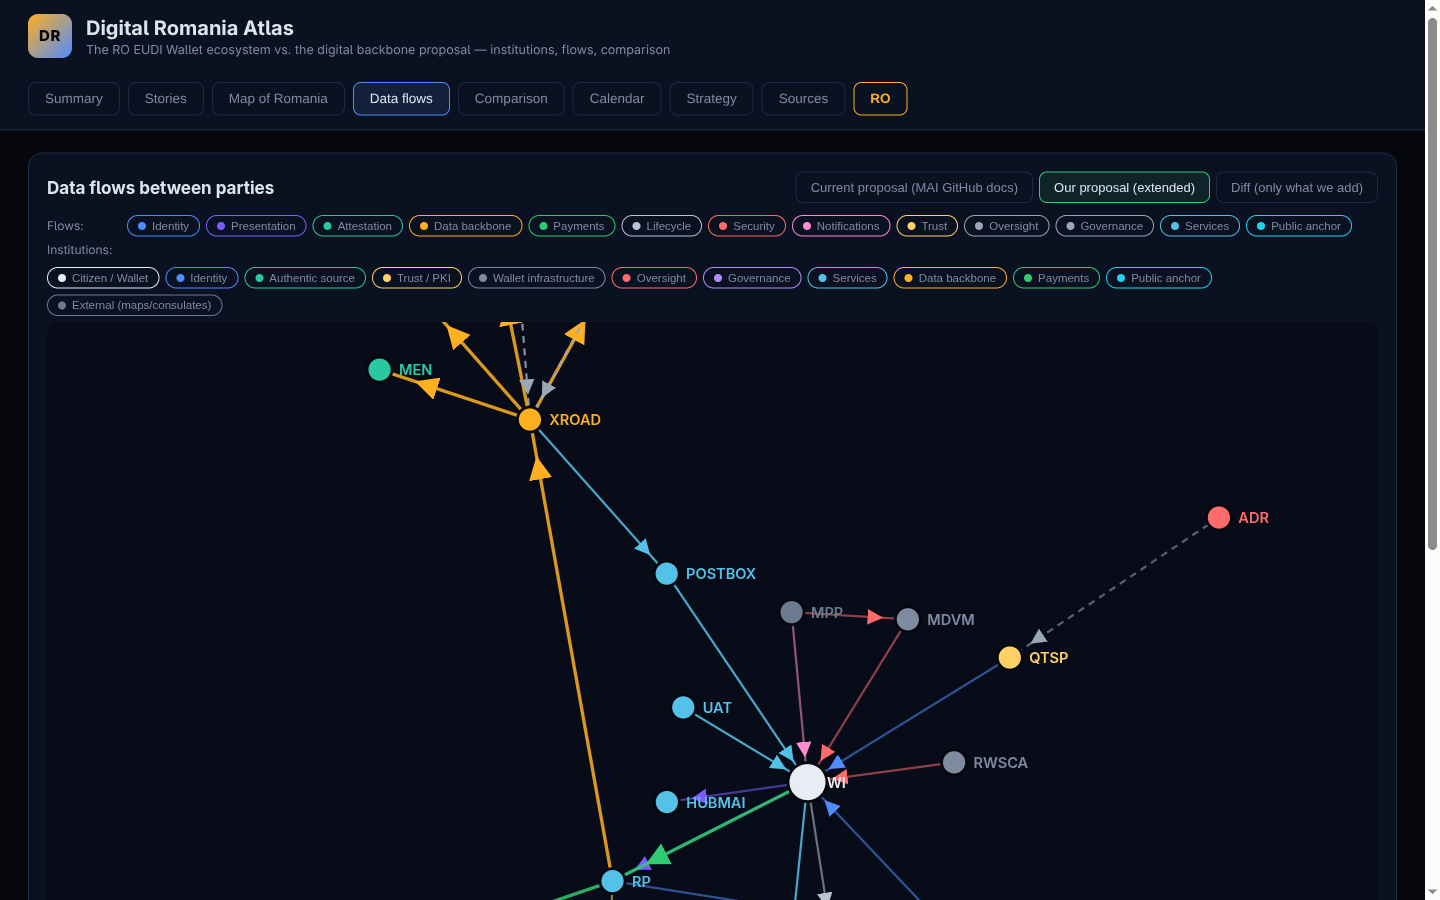
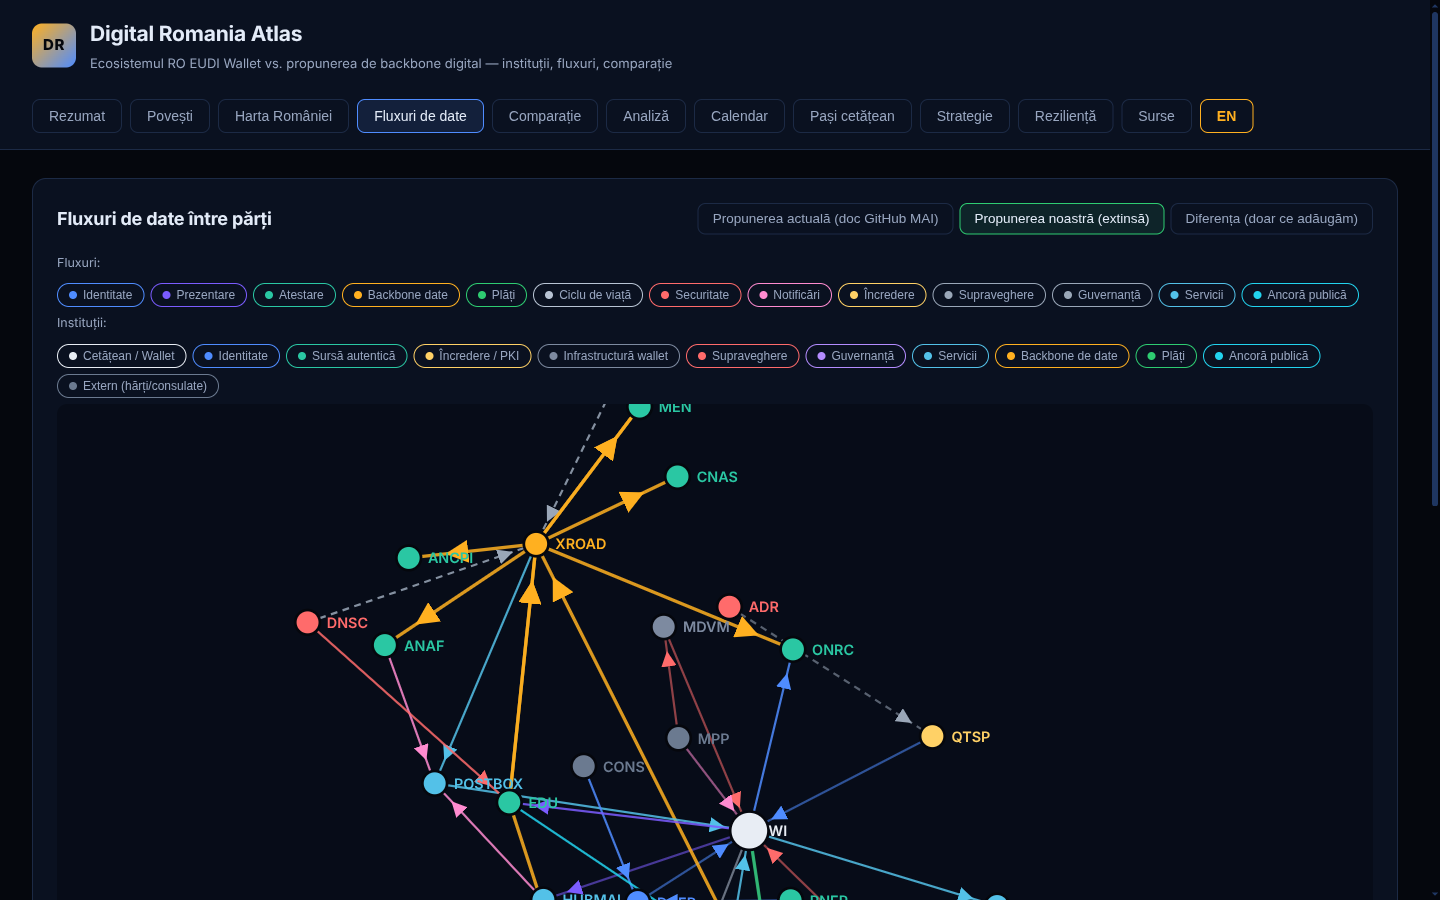
Sync docs to v0.3.0: glossary terms for new acronyms, README/changelog updates, fresh screenshots

diff --git a/src/data/glossary.ts b/src/data/glossary.ts
@@ -8,6 +8,83 @@ export interface GlossaryEntry {
 
 export const GLOSSARY: GlossaryEntry[] = [
   {
+    term: "FIDO2",
+    text: {
+      ro: "Fast IDentity Online 2 — standard de autentificare fără parolă, bazat pe chei criptografice de pe dispozitiv",
+      en: "Fast IDentity Online 2 — passwordless authentication built on device-held cryptographic keys",
+    },
+  },
+  {
+    term: "CTAP2",
+    text: {
+      ro: "Client to Authenticator Protocol 2 — protocolul prin care browserul/sistemul vorbește cu cheia hardware",
+      en: "Client to Authenticator Protocol 2 — how the browser/OS talks to a hardware key",
+    },
+  },
+  {
+    term: "WebAuthn",
+    text: {
+      ro: "Web Authentication — API-ul de autentificare FIDO2 din browsere",
+      en: "Web Authentication — the FIDO2 authentication API in browsers",
+    },
+  },
+  {
+    term: "BBS+",
+    text: {
+      ro: "Schemă de semnături cu atribute — permite dovedirea unei proprietăți fără dezvăluirea identității (anonymous credentials)",
+      en: "Attribute-based signature scheme — proving a property without revealing identity (anonymous credentials)",
+    },
+  },
+  {
+    term: "ZK",
+    text: {
+      ro: "Zero-Knowledge — demonstrație criptografică: dovedești că ceva e adevărat fără să arăți de ce",
+      en: "Zero-Knowledge — a cryptographic proof: you show something is true without showing why",
+    },
+  },
+  {
+    term: "E2E-V",
+    text: {
+      ro: "End-to-End Verifiable — vot electronic în care oricine poate verifica includerea buletinului și corectitudinea numărătorii, fără a afla cum a votat cineva",
+      en: "End-to-End Verifiable — e-voting where anyone can verify ballot inclusion and tally correctness without learning how anyone voted",
+    },
+  },
+  {
+    term: "mixnet",
+    text: {
+      ro: "Rețea de amestecare — rețea criptografică ce amestecă mesajele între expeditor și destinatar, rupând legătura dintre ei",
+      en: "Mix network — a cryptographic network that shuffles messages between sender and receiver, breaking the link between them",
+    },
+  },
+  {
+    term: "ElGamal",
+    text: {
+      ro: "Sistem de criptare cu cheie publică, aditiv homomorf — permite numărarea buletinelor fără a le decripta individual",
+      en: "A public-key encryption system, additively homomorphic — allows tallying ballots without decrypting each one",
+    },
+  },
+  {
+    term: "QSealC",
+    text: {
+      ro: "Qualified Electronic Seal — sigiliul electronic calificat al persoanei juridice (echivalentul QES pentru firme, eIDAS art. 35)",
+      en: "Qualified Electronic Seal — the legal person's qualified seal (the QES equivalent for companies, eIDAS art. 35)",
+    },
+  },
+  {
+    term: "Merkle",
+    text: {
+      ro: "Arbore Merkle — structură de hash-uri în care orice modificare a unei frunze schimbă rădăcina publică (verificare eficientă a integrității)",
+      en: "Merkle tree — a hash structure where any leaf change alters the public root (efficient integrity verification)",
+    },
+  },
+  {
+    term: "OpenID4VP",
+    text: {
+      ro: "OpenID for Verifiable Presentations — protocolul prin care wallet-ul prezintă credențiale unui serviciu (inclusiv prin QR cross-device)",
+      en: "OpenID for Verifiable Presentations — how the wallet presents credentials to a service (including cross-device QR)",
+    },
+  },
+  {
     term: "PID",
     text: {
       ro: "Personal Identification Data — date de identificare personală",

diff --git a/src/data/meta.ts b/src/data/meta.ts
@@ -6,7 +6,7 @@
  */
 
 export const META = {
-  version: "0.2.0",
+  version: "0.3.0",
   /** When the data was last meaningfully updated. */
   dataAsOf: "2026-09-11",
   author: {

diff --git a/README.md b/README.md
@@ -19,17 +19,20 @@ header)
 
 ![Strategy](docs/screenshots/shot-strategy.png)
 
+![Citizen journeys](docs/screenshots/shot-journeys.png)
+
 ## What it shows
 
 | View                | Content                                                                                                                                                                                                                                                                                                                                                                                                                                                                                                |
 | ------------------- | ------------------------------------------------------------------------------------------------------------------------------------------------------------------------------------------------------------------------------------------------------------------------------------------------------------------------------------------------------------------------------------------------------------------------------------------------------------------------------------------------------ |
 | **Rezumat**         | "Romania digitală în 30 de secunde": what happens today, the 5 additions we propose, why it matters.                                                                                                                                                                                                                                                                                                                                                                                                   |
-| **Povești**         | Ten citizen stories with personas — rural pensioner, proof of age, local tax, medical attestation, diaspora bank account, university enrolment, sick leave, car purchase, land book extract, civic verification — each showing today vs. proposal with the involved flow steps.                                                                                                                                                                                                                        |
+| **Povești**         | Thirteen citizen stories with personas — rural pensioner, proof of age, local tax, medical attestation, diaspora bank account, university enrolment, sick leave, car purchase, land book extract, civic verification, the lost phone, the anchored parliamentary vote, the company administrator — each showing today vs. proposal with the involved flow steps.                                                                                                                                       |
 | **Harta României**  | County map with institutions as colored points (category-filterable). Small dots in every county = town halls (UAT) as assisted-enrollment / offline fallback points in the proposal.                                                                                                                                                                                                                                                                                                                  |
 | **Fluxuri de date** | Three toggleable force-directed graphs. _"Propunerea actuală"_ reproduces only what the published MAI GitHub documentation describes (PID issuance, presentation, wallet backend, MDVM, RWSCA, push, status lists). _"Propunerea noastră"_ adds the data backbone, payments, digital postbox, diaspora, independent oversight, and public transparency anchors (permissionless chain + EBSI). _"Diferența"_ dims the documented flows and highlights only what the proposal adds. Filter by flow type. |
 | **Comparație**      | 13-dimension table: published documentation vs. our proposal, with status (aligned / extended / added).                                                                                                                                                                                                                                                                                                                                                                                                |
 | **Analiză**         | Policy brief: the verdict (honour the EUDI obligation, not the current architecture as end state), the 4 construction facts from the MAI presentation, the 8 risks (institutional concentration, vendor lock-in, surveillance capability, parallel identities, thin scope, unpublished resilience, per-institution integration, aggressive timeline) with fixes, the 8-criterion comparison, and the concrete gains.                                                                                   |
 | **Calendar**        | EU obligations, the national plan, and our proposed additions side by side.                                                                                                                                                                                                                                                                                                                                                                                                                            |
+| **Pași cetățean**   | Eight citizen-journey flow diagrams with numbered steps: wallet enrollment, signing in, the lost phone, the optional hardware key, the open and the secret parliamentary vote, the company mandate and delegation — every actor chip shows its full name and role on hover.                                                                                                                                                                                                                            |
 | **Strategie**       | Full 7-layer architecture (L0 sovereign endpoints → L6 oversight), the six pillars (redundancy, open source, security, scalability, transparency anchors, educational & civic networks), redundancy tiers per service class, 5-year cost estimates, machines & equipment required, estimated savings, the 14 outward-facing portals, and the rationalisation of today's real state portals (inventory, consolidation map, governance rules, cutover phases).                                           |
 | **Reziliență**      | The 3+8+1+L0 model: three semi-active sovereign sites, eight regional micro-DCs with own power generation (one per development region), an underground salt-mine vault, and offline L0 nodes; energy-autonomy math per tier; Vrancea/flood/outage/cable/cyber scenarios; hardware independence (OCP, open ISA, OpenBMC); software independence; RoEduNet/academia integration; 3-2-1-1-0 backup rules; resilience costs.                                                                               |
 | **Surse**           | Provenance for every claim: MAI docs pinned at a specific commit, the MAI presentation, EU regulations, standards, the sovereign-OS article, and the verified state portals behind the rationalisation inventory.                                                                                                                                                                                                                                                                                      |
@@ -90,7 +93,8 @@ Everything is plain typed data — edit without touching components:
 - `src/data/hr.ts` — human resources: team templates, per-institution FTE, RO vs EU pay bands (Strategie tab)
 - `src/data/resilience.ts` — DC placement, regional micro-DCs, underground sites, energy autonomy, disaster scenarios, hardware/software sovereignty, academia, costs (Reziliență tab)
 - `src/data/policy.ts` — the policy brief: verdict, current-architecture facts, the 8 risks with fixes, criteria, gains (Analiză tab)
-- `src/data/stories.ts` — the five citizen stories
+- `src/data/stories.ts` — the citizen stories
+- `src/data/journeys.ts` — the step-by-step citizen journeys (Pași cetățean)
 - `src/data/sources.ts` — provenance links for every claim
 - `src/i18n.tsx` — RO/EN language context; every data field is `{ ro, en }`
 - `public/data/ro-counties.geojson` — Romania counties (42 features, incl. București)

diff --git a/CHANGELOG.md b/CHANGELOG.md
@@ -6,18 +6,34 @@ version (shown in the page footer) so a citation stays verifiable.
 
 ## [Unreleased]
 
+## [0.3.0] — 2026-09-11
+
 ### Added
+
+- Eight citizen-journey flow diagrams (Pași cetățean view): wallet enrollment,
+  signing in, the lost phone, the optional hardware key, the open and the
+  secret parliamentary vote, the company mandate, and delegated powers.
+- Parliamentary voting model: QES-signed and publicly anchored open votes;
+  anonymous credentials, encrypted ballots, mixnet, homomorphic tally with an
+  HSM quorum and end-to-end verification for secret votes.
+- Company representation model: ONRC mandate attestations, delegation chains
+  and the qualified electronic seal (QSealC).
+- Identity-loss planning: lost-device scenario in Reziliență, identity
+  lifecycle table in Strategie, hardware-key row in Comparație, lost-phone
+  story in Povești.
+- Hover tooltips on every actor acronym in stories and journeys.
+- Parliament and Company nodes on the institutions map.
+- Glossary entries for the new terms (FIDO2, CTAP2, WebAuthn, BBS+, ZK, E2E-V,
+  mixnet, ElGamal, QSealC, Merkle, OpenID4VP).
+
+## [0.2.0] — 2026-09-11
 
 - Debate-readiness batch: named author and contact, data "as of" dating, press
   kit (JSON/CSV export), corrections policy with public errata, methodology
   document, steelman section (strongest counter-arguments with responses),
   locked-scenario URLs (`?scenario=…`) for deterministic, citable pages.
-
-## [0.2.0] — 2026-09-11
-
 - Live UAT bridge with the administrative-reform simulator; every UAT-derived
   figure recomputes from the map in the other tab.
-- Fallback snapshot of the administrative-reform scenario.
 
 ## [0.1.0] — 2026-09-10
 
